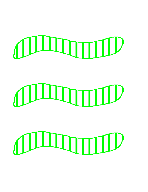
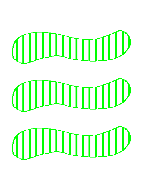
Updated transparant program and fix some minor bug

diff --git a/SetClasses.py b/SetClasses.py
@@ -1,6 +1,7 @@
 from tkinter import *
 import tkinter as tk
 from tkinter import ttk
+from tkinter import messagebox
 from itertools import combinations
 import os
 import random
@@ -63,6 +64,14 @@ class tkinterApp(tk.Tk):
 	
 	def reloadGame(self):
 		self.frames[ActualGame].destroy()
+		os.chdir("..//")
+		frame = ActualGame(self.container, self)
+		self.frames[ActualGame] = frame
+		frame.grid(row = 0, column = 0, sticky ="nsew")
+
+	def endGame(self):
+		self.frames[ActualGame].destroy()
+		os.chdir("..//")
 		frame = ActualGame(self.container, self)
 		self.frames[ActualGame] = frame
 		frame.grid(row = 0, column = 0, sticky ="nsew")
@@ -137,7 +146,7 @@ class ActualGame(tk.Frame):
 		os.chdir("playingCards")
 		self.fillImageButtonArray()
 		self.emptyImage= PhotoImage(file='testEmpty.png')
-		os.chdir("..//")
+		# os.chdir("..//")
 		for x in range(0, 5):
 			if x < 4:
 				self.btnCardArray[x][0] = tk.Button(self.setUpperFrame, 
@@ -248,7 +257,7 @@ class ActualGame(tk.Frame):
 		if self.cardsClickedCounter == 3:
 			self.refreshButtonImage()
 
-	def checkAllCards(self):	
+	def checkAllCards(self):
 		numberOfSets = 0
 		arrayForCheck = [[99, 99],[99, 99],[99, 99]]
 

diff --git a/ImageCreation/TemplateImages/Transparant.py b/ImageCreation/TemplateImages/Transparant.py
@@ -16,11 +16,13 @@ def convertImage():
         newData = []
 
         for items in datas:
-            if items[0] == 0 and items[1] == 0 and items[2] == 0 and items[3] == 255:
+            if items[0] == 255 and items[1] == 255 and items[2] == 255:
                 newData.append((255, 255, 255, 0))
             else:
-                #newData.append((255, 192, 203, 255))
                 newData.append((0, 0, 0, 255))
+                #newData.append((255, 192, 203, 255))
+                
+
 
         img.putdata(newData)
         img.save(f"{file}", "PNG")

diff --git a/CombinationCheck.py b/CombinationCheck.py
@@ -46,9 +46,9 @@ def checkAllCards():
     global cardDeckArray
     arrayForCheck = [[99, 99],[99, 99],[99, 99]]
 
-    totalLoop = 10000000
-    lowerBound = 4
-    amountOfCards = 4
+    totalLoop = 1000000
+    lowerBound = 15
+    amountOfCards = 15
 
     for numberOfCards in range(lowerBound, amountOfCards+1):
         falseCounter = 0
